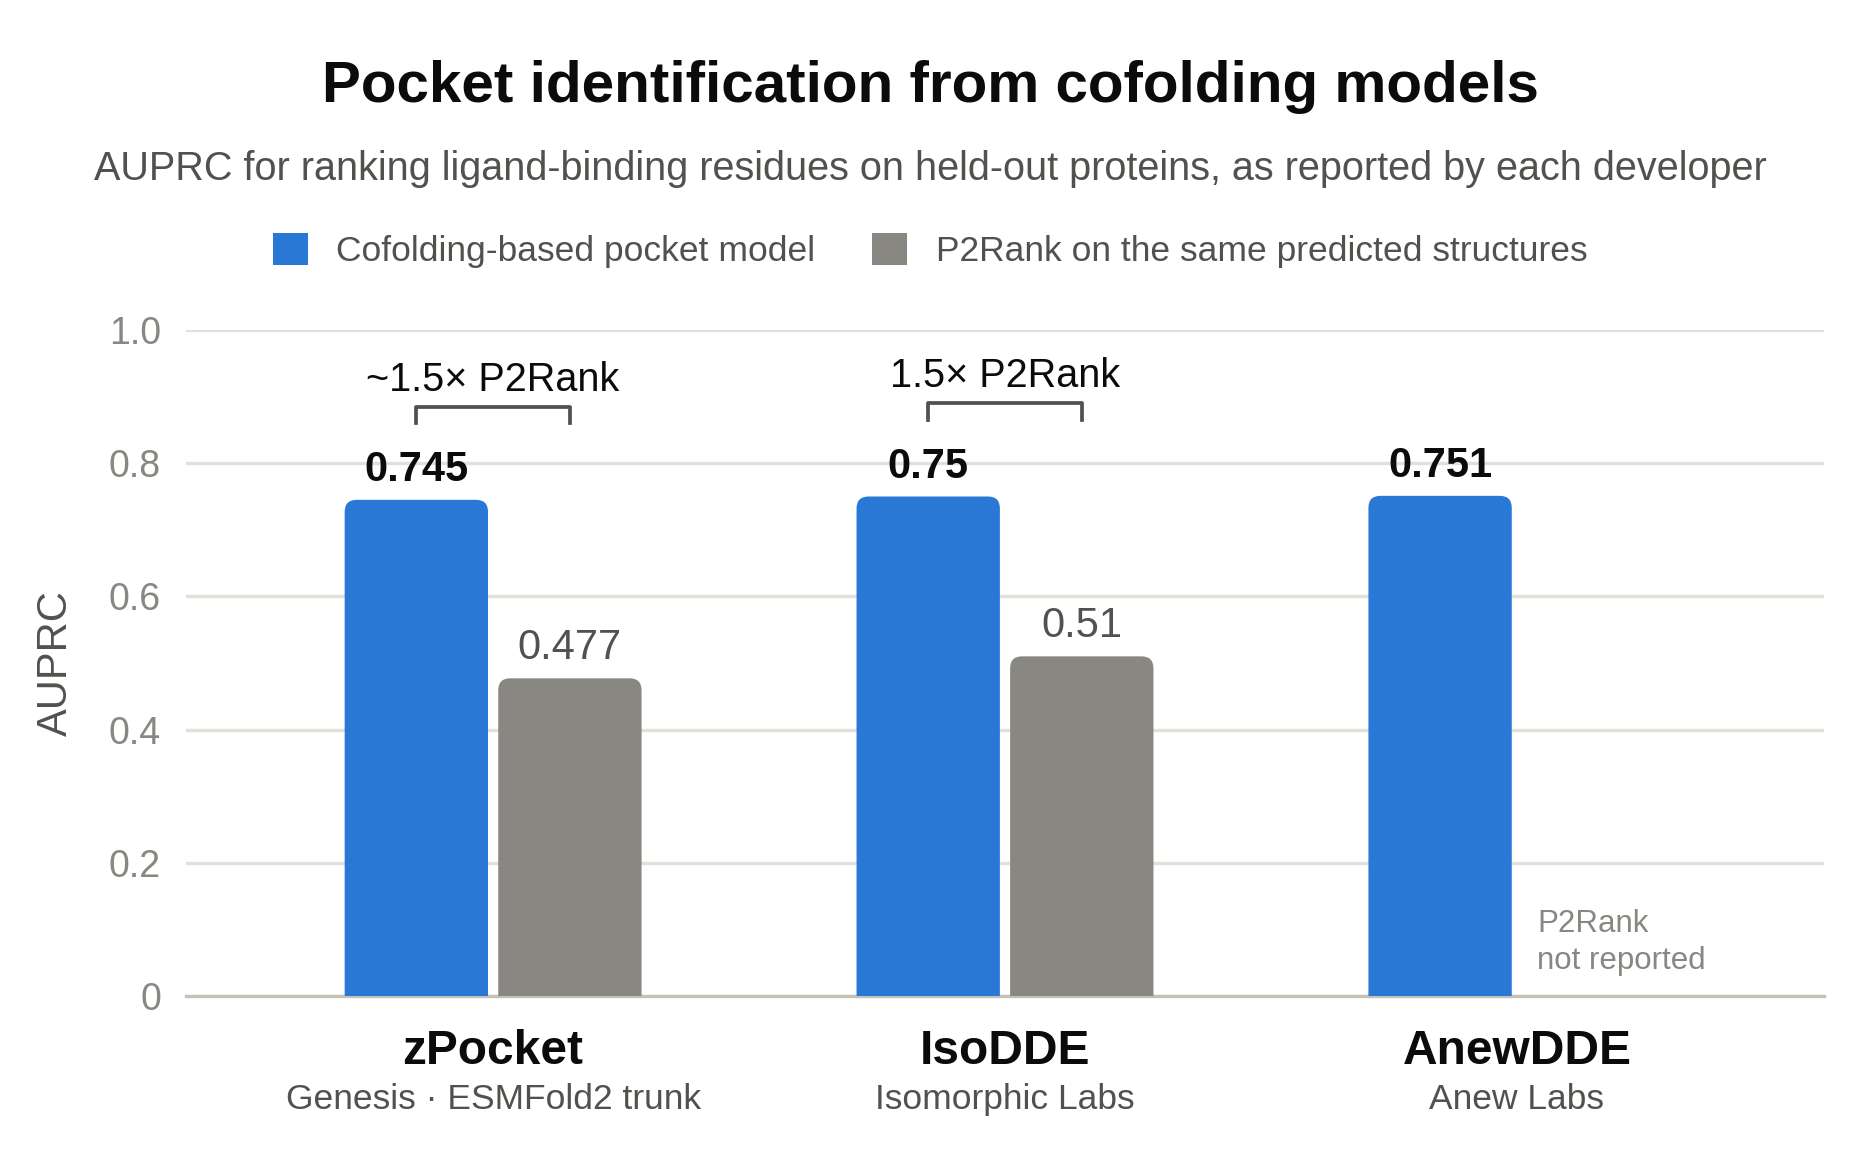
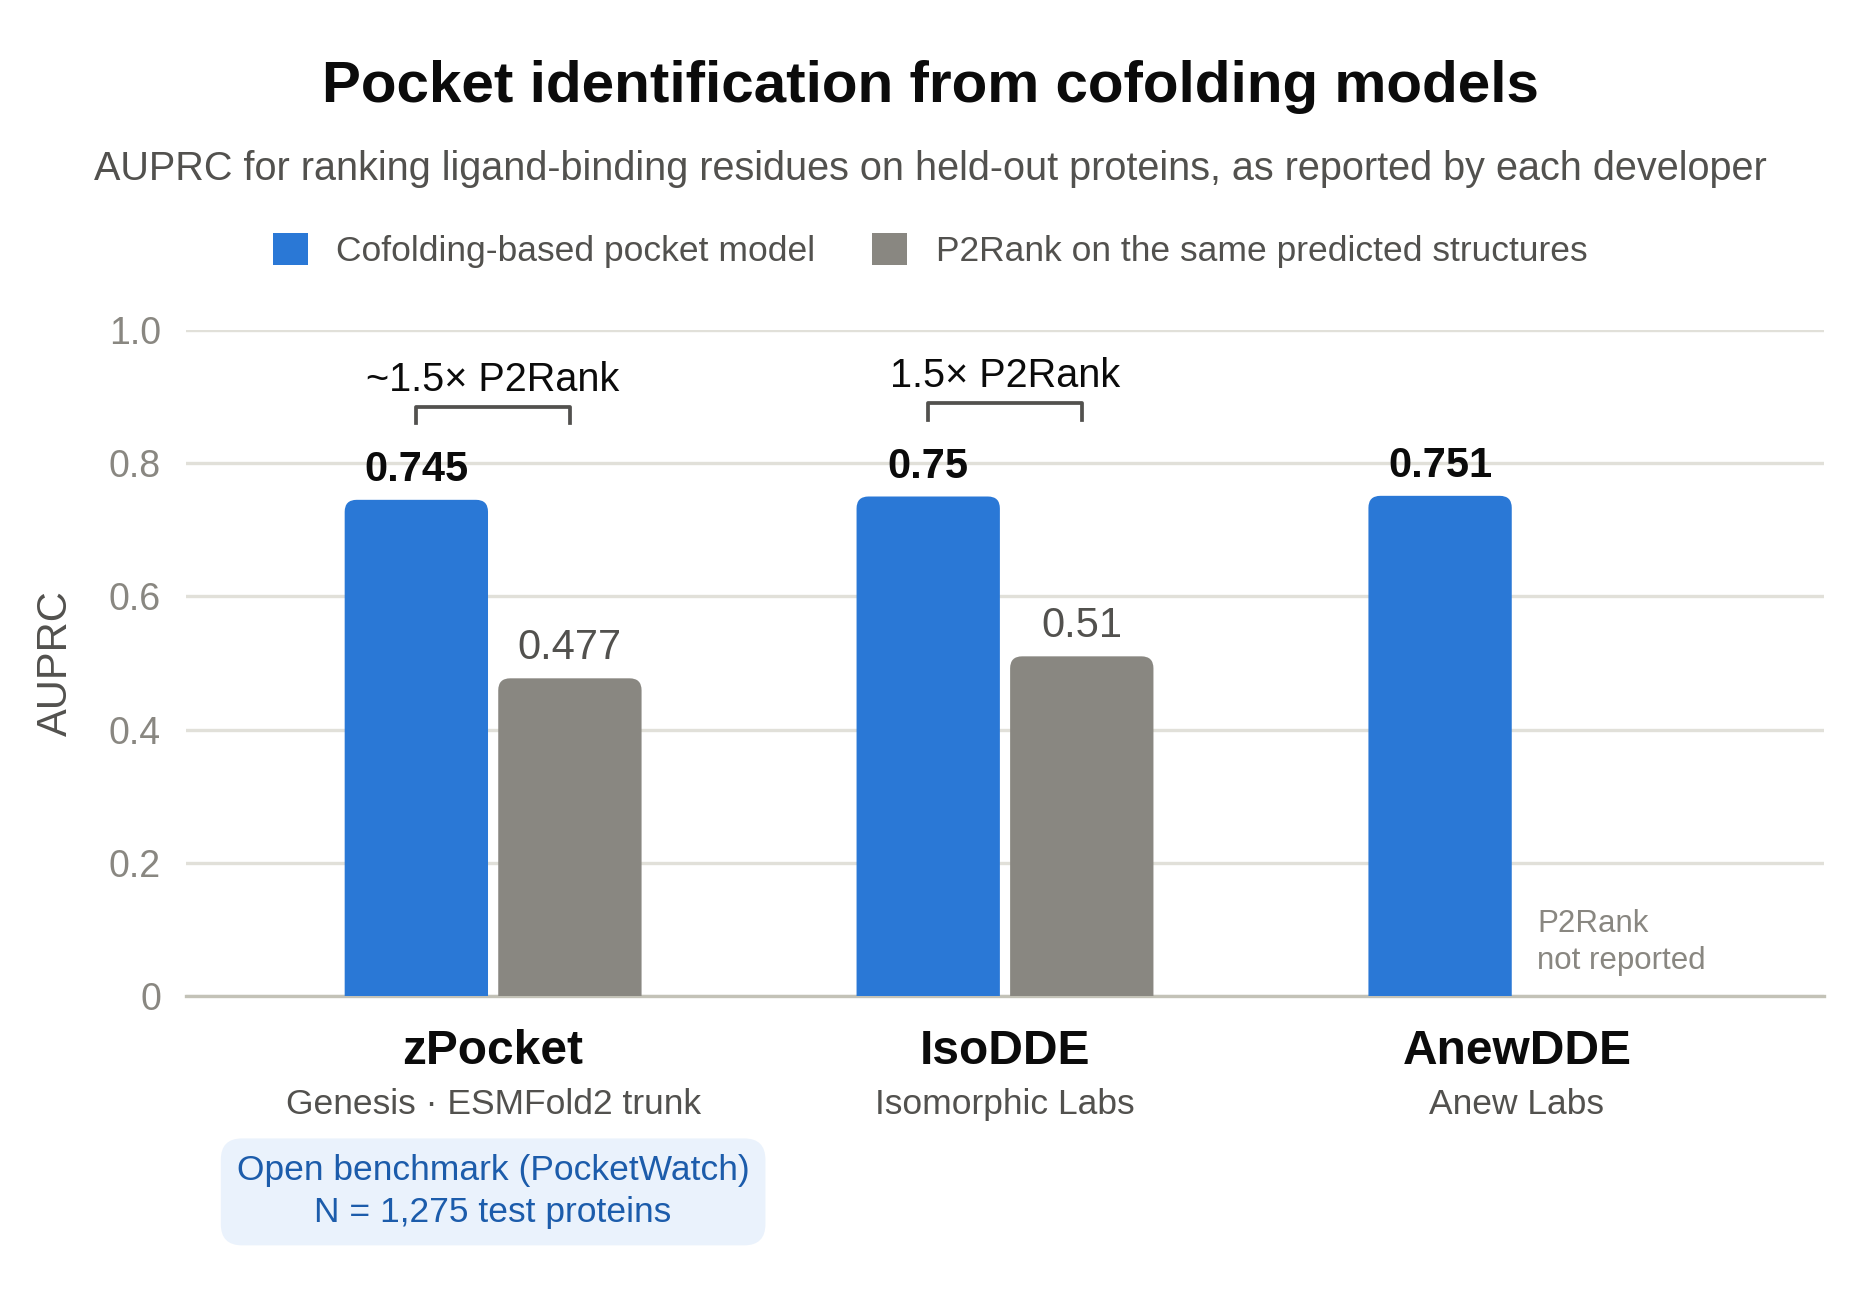
docs(press): tag zPocket's result as reproducible on PocketWatch
Adds a tag under zPocket noting that it was evaluated on the open
PocketWatch benchmark, with the test-set size (N = 1,275 proteins, from
the paper's Table 1). Also shrinks the figure so text reads larger,
narrows the bars, centres the header and legend, drops the footnote, and
labels zPocket's ratio as ~1.5x P2Rank to read as on par with IsoDDE.

diff --git a/press_images/make_pocket_id_comparison.py b/press_images/make_pocket_id_comparison.py
@@ -34,13 +34,19 @@ INK_2 = "#52514e"
 INK_MUTED = "#898781"
 GRID = "#e1e0d9"
 BASELINE = "#c3c2b7"
+TAG_BG = "#eaf2fc"
+TAG_INK = "#1c5cab"
+
+# zPocket's test set is public, so its result can be reproduced; the competitors' sets are not.
+# Counts from the paper's Table 1: 1,275 targets (1,562 pockets) in the effective test set.
+ZPOCKET_TAG = "Open benchmark (PocketWatch)\nN = 1,275 test proteins"
 
 BAR_W = 0.28
-FIG_W, FIG_H = 6.2, 3.9  # inches; fonts are fixed in points, so a smaller figure reads larger
+FIG_W, FIG_H = 6.2, 4.3  # inches; fonts are fixed in points, so a smaller figure reads larger
 
 # Layout in inches from the figure edges, so text spacing survives figure resizes.
 TITLE_TOP, SUBTITLE_TOP, LEGEND_TOP, AXES_TOP = 0.2, 0.5, 0.67, 1.1
-AXES_BOTTOM, AXES_LEFT, AXES_RIGHT = 0.58, 0.62, 0.12
+AXES_BOTTOM, AXES_LEFT, AXES_RIGHT = 0.98, 0.62, 0.12
 GAP = 0.02  # surface gap between adjacent bars, in x data units
 CORNER_PX = 4
 
@@ -114,13 +120,26 @@ def main():
         ax.add_line(Line2D([xm, xm, xp, xp], [y - 0.025, y, y, y - 0.025], color=INK_2, lw=0.9, zorder=4))
         ax.text(i, y + 0.012, ratio_lbl, ha="center", va="bottom", fontsize=9.5, color=INK)
 
-    # Two-line group labels: name (bold) over developer (muted).
+    # Group labels: name (bold) over developer (muted), offset in points below the axis.
     ax.set_xticks(range(len(RESULTS)))
     ax.set_xticklabels([""] * len(RESULTS))
     ax.tick_params(axis="x", length=0)
+
+    def below_axis(x, dy, text, **kw):
+        ax.annotate(text, xy=(x, 0), xycoords=("data", "axes fraction"), xytext=(0, dy), textcoords="offset points", ha="center", va="top", **kw)
+
     for i, (name, dev, *_) in enumerate(RESULTS):
-        ax.text(i, -0.05, name, transform=ax.get_xaxis_transform(), ha="center", va="top", fontsize=11.5, fontweight="bold", color=INK)
-        ax.text(i, -0.13, dev, transform=ax.get_xaxis_transform(), ha="center", va="top", fontsize=8.5, color=INK_2)
+        below_axis(i, -8, name, fontsize=11.5, fontweight="bold", color=INK)
+        below_axis(i, -22, dev, fontsize=8.5, color=INK_2)
+    below_axis(
+        0,
+        -38,
+        ZPOCKET_TAG,
+        fontsize=8.5,
+        color=TAG_INK,
+        linespacing=1.35,
+        bbox=dict(boxstyle="round,pad=0.45,rounding_size=0.6", facecolor=TAG_BG, edgecolor="none"),
+    )
 
     ax.set_yticks([0, 0.2, 0.4, 0.6, 0.8, 1.0])
     ax.set_yticklabels(["0", "0.2", "0.4", "0.6", "0.8", "1.0"], fontsize=9)

diff --git a/press_images/README.md b/press_images/README.md
@@ -4,6 +4,8 @@
 
 Pocket-identification AUPRC for zPocket alongside the cofolding-based pocket predictors in the IsoDDE and AnewDDE technical reports. Each bar shows the number its developers reported, with P2Rank as the shared reference point where one was reported.
 
+The tag under zPocket marks that its result can be reproduced: the PocketWatch test set ([huggingface.co/datasets/genesisml/PocketWatch](https://huggingface.co/datasets/genesisml/PocketWatch)) and the zPocket weights ([huggingface.co/genesisml/zPocket](https://huggingface.co/genesisml/zPocket)) are released with the paper. N = 1,275 is the number of test proteins scored (1,562 pockets), from the paper's Table 1. The IsoDDE report does not give the size of its pocket-identification test set.
+
 Regenerate with `python make_pocket_id_comparison.py` (needs matplotlib only).
 
 | Model | AUPRC | P2Rank | Source |
